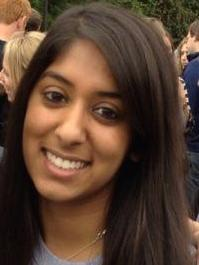
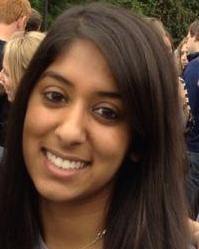
fixed picture and spacing

diff --git a/css/custom.css b/css/custom.css
@@ -18,7 +18,7 @@ body {
 
 .id-pic {
   border-radius: 10px;	
-  margin: 55px 0px 10px 20px;
+  margin: 55px 0px 5px 20px;
   float:right;
 }
 
